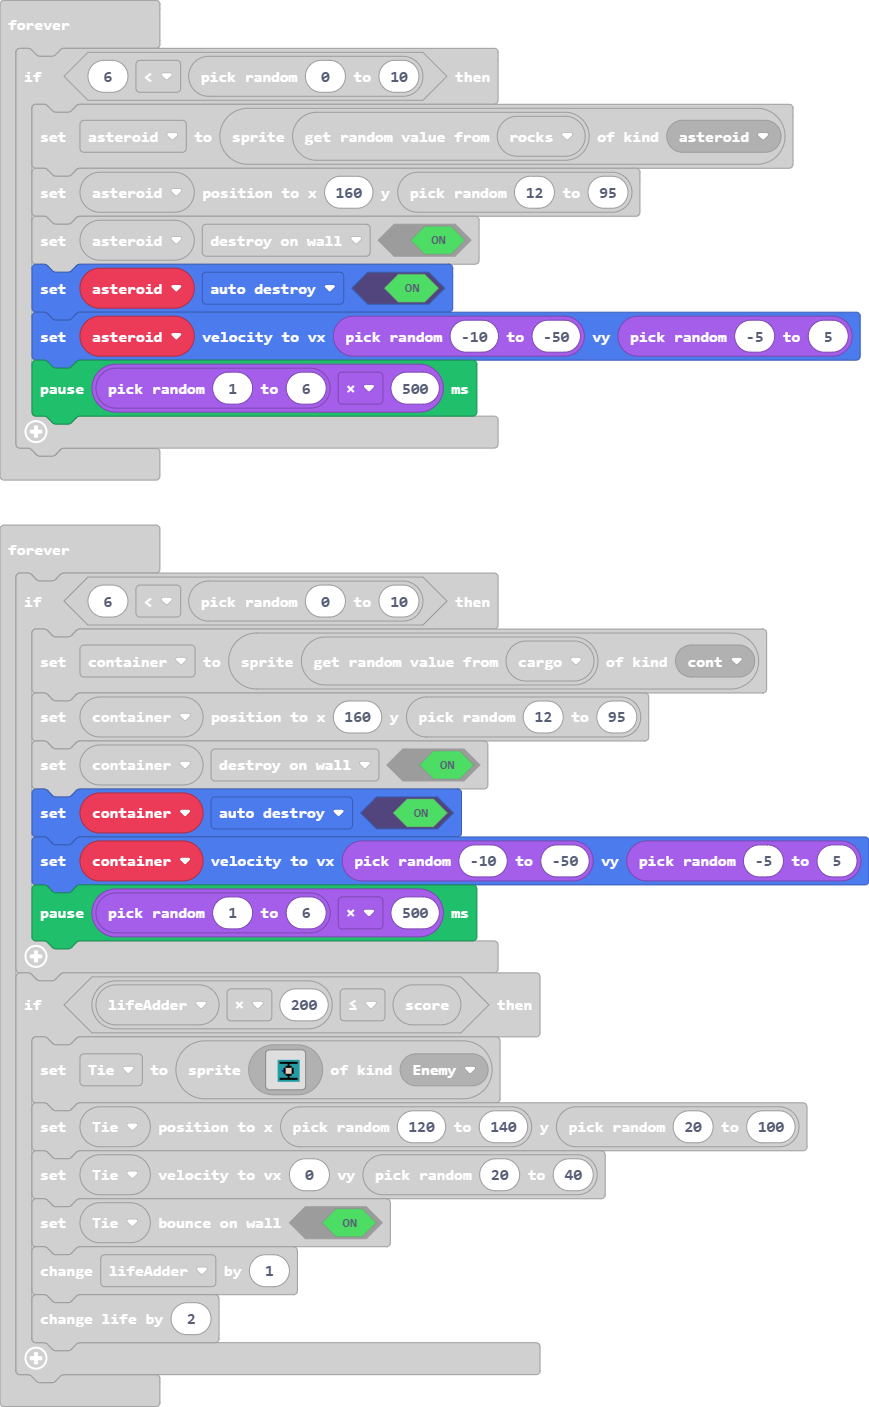
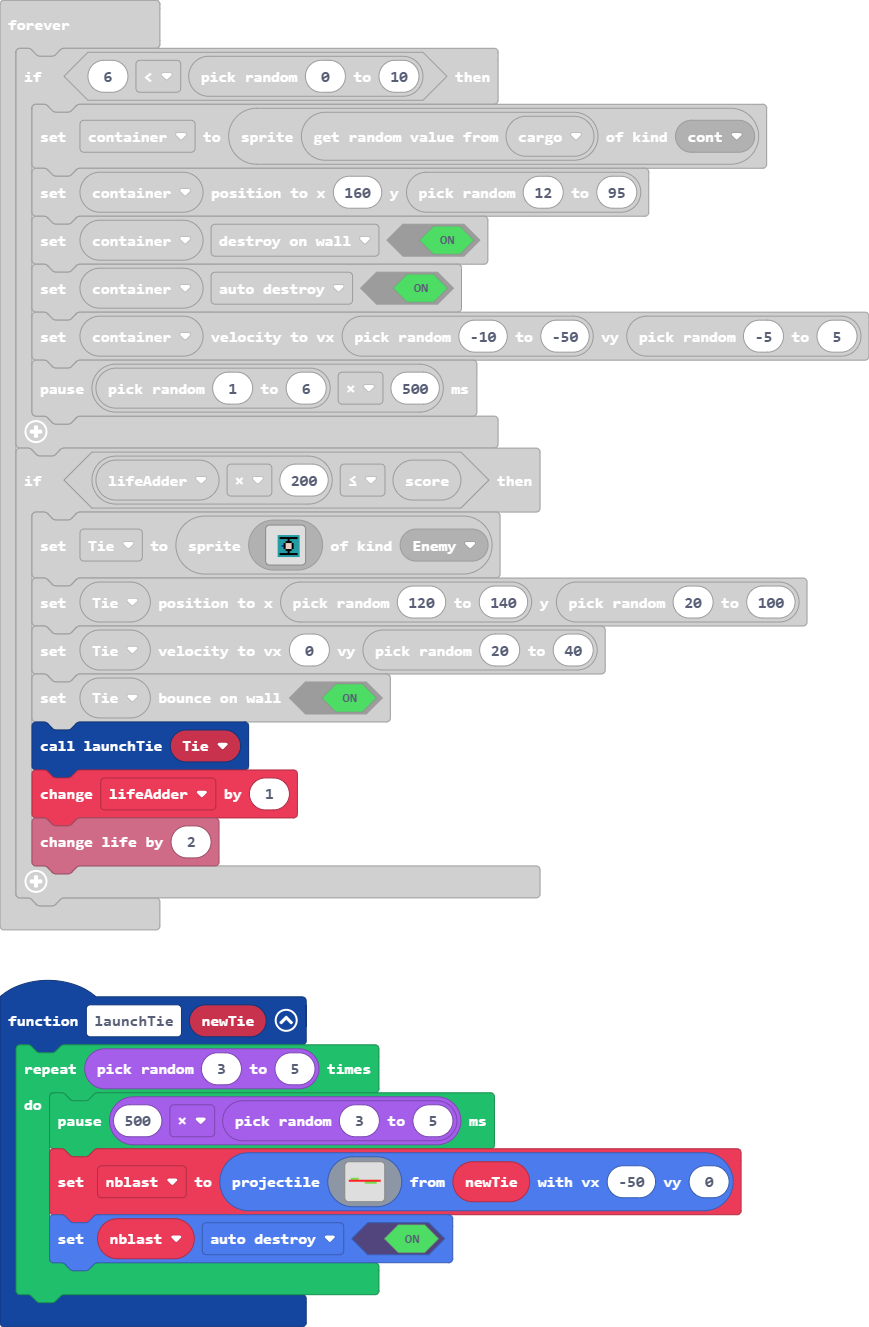
Update main.blocks, main.ts

diff --git a/main.ts b/main.ts
@@ -2,6 +2,7 @@ namespace SpriteKind {
     export const bldg = SpriteKind.create()
     export const asteroid = SpriteKind.create()
     export const cont = SpriteKind.create()
+    export const eblast = SpriteKind.create()
 }
 controller.A.onEvent(ControllerButtonEvent.Pressed, function () {
     music.play(music.melodyPlayable(music.pewPew), music.PlaybackMode.InBackground)
@@ -29,6 +30,13 @@ function StartFlight () {
     controller.moveSprite(MF)
     MF.setStayInScreen(true)
 }
+function launchTie (newTie: Sprite) {
+    for (let index = 0; index < randint(3, 5); index++) {
+        pause(500 * randint(3, 5))
+        nblast = sprites.createProjectileFromSprite(assets.image`laser`, newTie, -50, 0)
+        nblast.setFlag(SpriteFlag.AutoDestroy, true)
+    }
+}
 sprites.onOverlap(SpriteKind.Projectile, SpriteKind.Enemy, function (sprite, otherSprite) {
     music.play(music.melodyPlayable(music.knock), music.PlaybackMode.InBackground)
     sprites.destroy(sprite, effects.fire, 500)
@@ -53,6 +61,7 @@ sprites.onOverlap(SpriteKind.Player, SpriteKind.Enemy, function (sprite, otherSp
 let Tie: Sprite = null
 let container: Sprite = null
 let asteroid: Sprite = null
+let nblast: Sprite = null
 let MF: Sprite = null
 let blast: Sprite = null
 StartFlight()
@@ -96,6 +105,7 @@ forever(function () {
         Tie.setPosition(randint(120, 140), randint(20, 100))
         Tie.setVelocity(0, randint(20, 40))
         Tie.setBounceOnWall(true)
+        launchTie(Tie)
         lifeAdder += 1
         info.changeLifeBy(2)
     }
